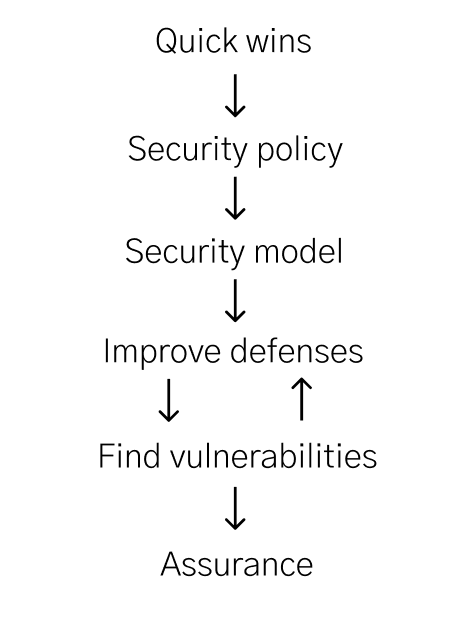
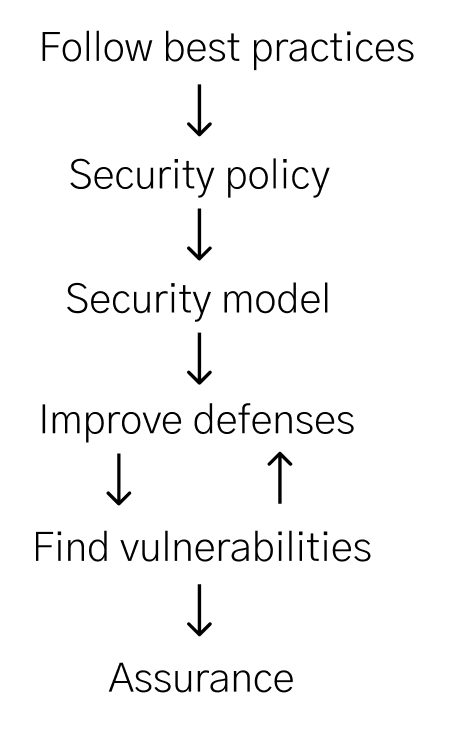
describe my process

diff --git a/README.md b/README.md
@@ -4,6 +4,8 @@ Security engineering is the discipline of building secure systems.
 
 Its lessons are not just applicable to computer security. In fact, in this repo, I aim to document a process for securing anything, whether it's a medieval castle, an art museum, or a computer network.
 
+> This repo is not done. It is actively being worked on, however.
+
 ## What is security engineering?
 
 Security engineering isn't about adding a bunch of controls to something.
@@ -15,11 +17,20 @@ mechanisms that enforce these properties, and assuring yourself that your securi
 - [What's the problem? (from Saydjari's book)](https://www.oreilly.com/library/view/engineering-trustworthy-systems/9781260118186/ch1.xhtml) - [my notes](saydjari/saydjari-ch1.md)
 - [Computer security in the real world](what_is_it/computer_security_in_the_real_world.pdf)
 
-## The process
+## High level process
+
+Here's the process I like for securing things:
 
 ![](images/high_level_process.png)
 
-## Capture quick wins
+- We follow as many known best practices as we can
+- We write down our security policies, or high level security goals
+- We develop a security model, or a spec we follow to satisfy our policies
+- We reduce attack surface, follow security design principles, brainstorm ideas for and implement additonal security controls, and more -- to improve our security
+- We test our design by assessing our controls, assessing protocols, looking for side channels, and more
+- We write assurance cases to prove we satisfy our security policy.
+
+## Follow best practices
 
 Before anything else, I'd Google for the best practices for securing whatever you're trying to secure and implement all of them.
 
@@ -128,6 +139,13 @@ The way I see it, every defense falls into one of these categories:
 
 Take any attack. Then, for each of the seven categories, brainstorm defenses that fall into that category.
 
+### Kill chains
+
+By mapping out an adversary's kill chain, we can then identify controls to counteract
+each step in the kill chain. Check out [MITRE ATT&CK](https://attack.mitre.org/).
+
+- [Kill chains (Wikipedia)](https://en.wikipedia.org/wiki/Kill_chain)
+
 ### Security design principles
 
 - [Stop buying bad security prescriptions](https://medium.com/@justin.schuh/stop-buying-bad-security-prescriptions-f18e4f61ba9e)
@@ -147,13 +165,6 @@ Also, remember the [weakest link principle](https://www.us-cert.gov/bsi/articles
 path and ensure that the cost isn't too low.
 
 - [Attack trees (from Bruce Schneier)](https://www.schneier.com/academic/archives/1999/12/attack_trees.html)
-
-### Kill chains
-
-By mapping out an adversary's kill chain, we can then identify controls to counteract
-each step in the kill chain. Check out [MITRE ATT&CK](https://attack.mitre.org/).
-
-- [Kill chains (Wikipedia)](https://en.wikipedia.org/wiki/Kill_chain)
 
 ### Control analysis
 
